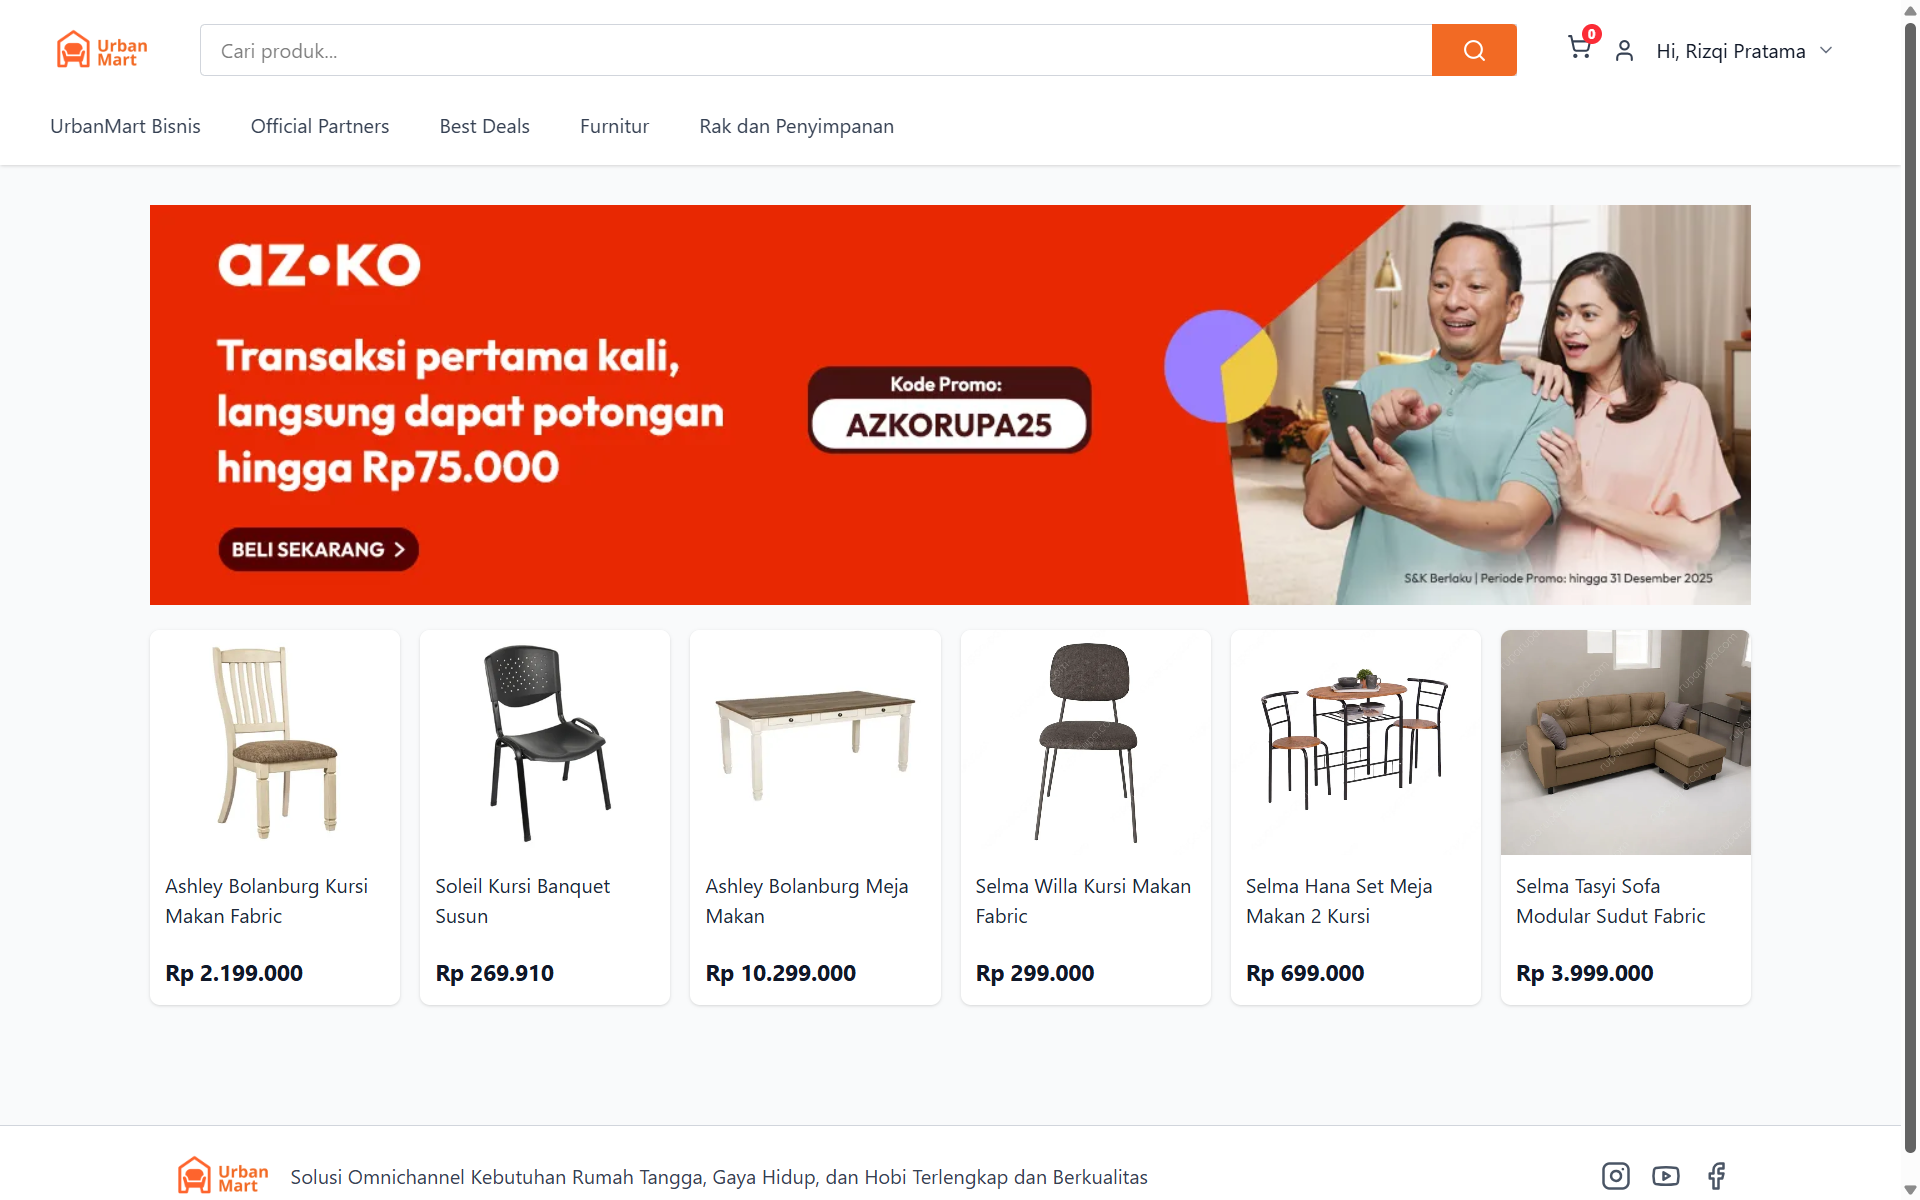
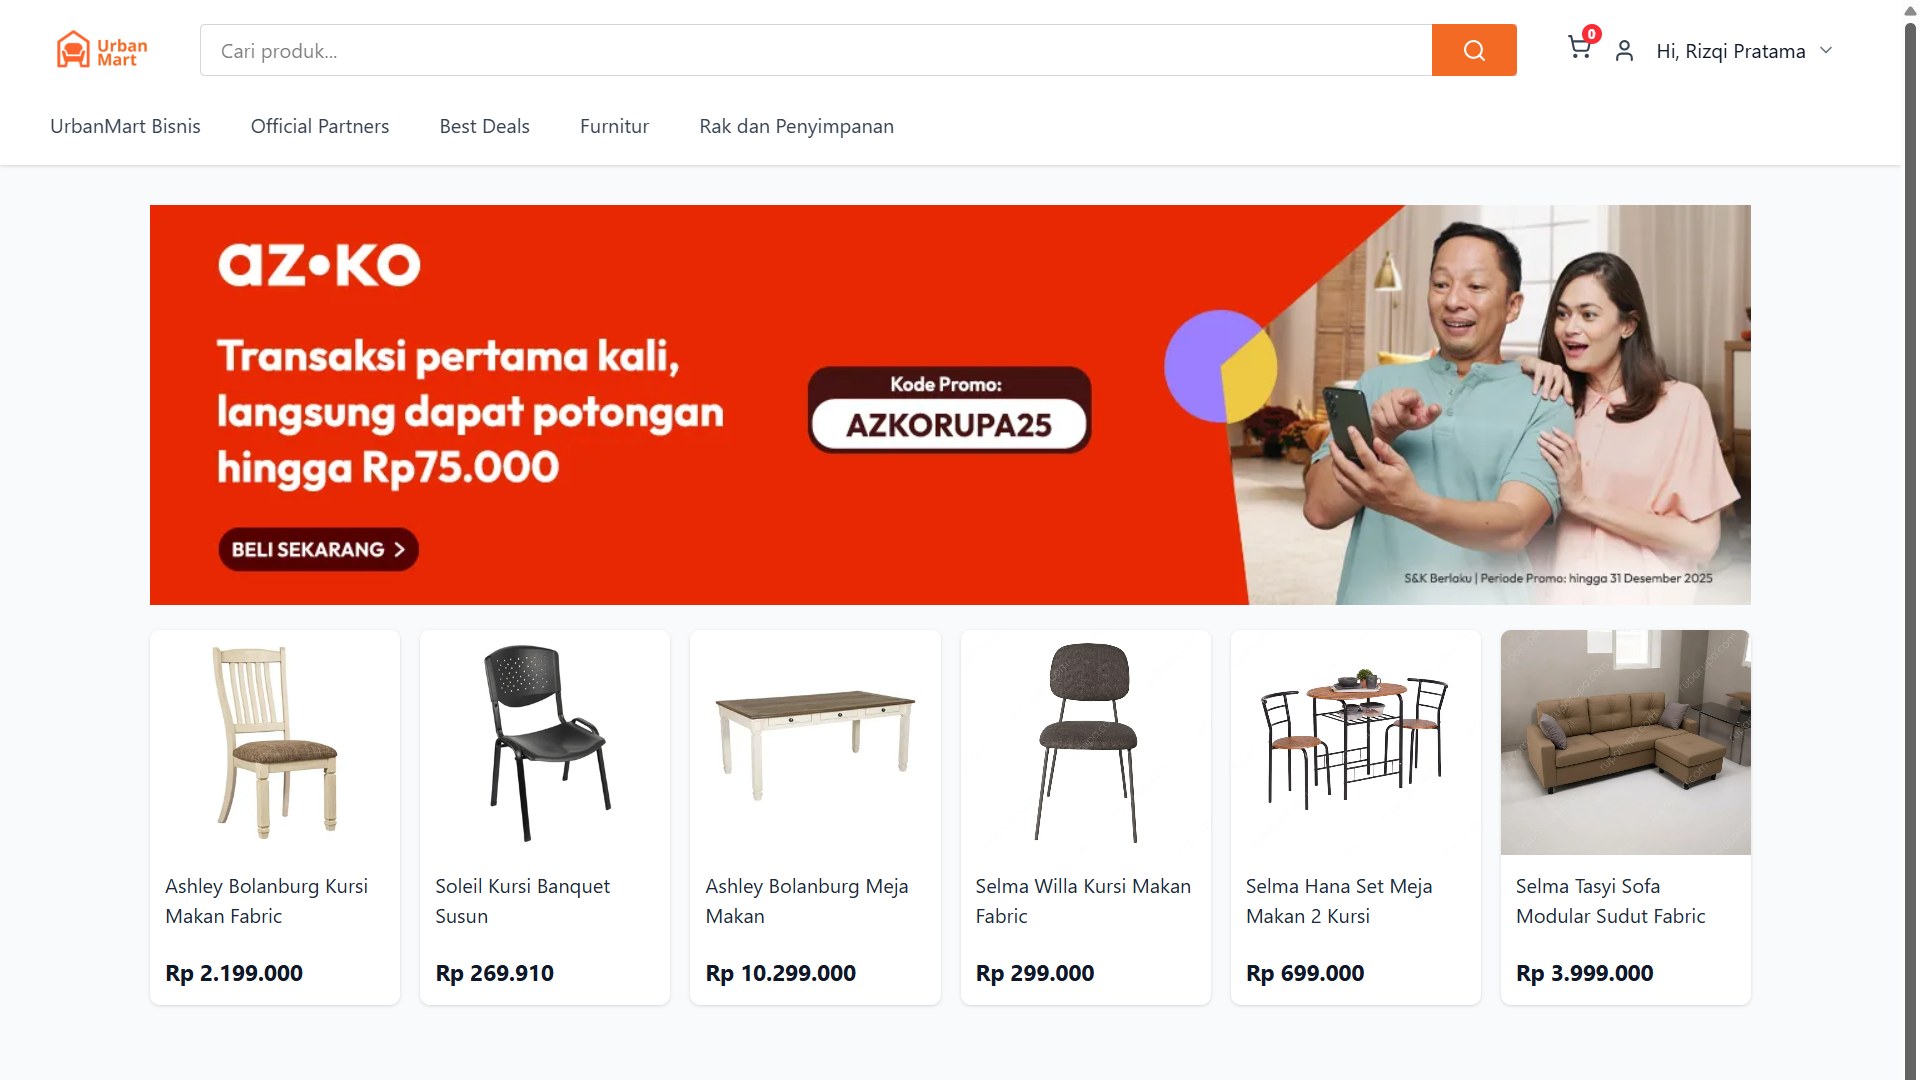
update projects

diff --git a/src/sections/Projects.jsx b/src/sections/Projects.jsx
@@ -15,7 +15,7 @@ const projects = [
     title: "SKANEDA Information Platform API ",
     description:
       "Laravel REST API serving a multi-domain school information platform with news publishing, achievements, facilities, discussion forums, career opportunities, role-based authentication, Redis caching, and background job processing.",
-    image: "/projects/siminlab-inventory-lending-management-system.png",
+    image: "/projects/school-website-project.png",
     tags: ["Laravel", "MySQL", "Redis"],
     link: "#",
     github: "https://github.com/rizqipratama25/skaneda-web-api",
@@ -24,7 +24,7 @@ const projects = [
     title: "Siminlab Inventory Lending Management System",
     description:
       "Inventory lending and asset tracking application built with Laravel. Supports item management, borrowing records, return tracking, and inventory monitoring workflows.",
-    image: "/projects/inventory-app.png",
+    image: "/projects/siminlab-inventory-lending-management-system.png",
     tags: ["Laravel", "MySQL"],
     link: "#",
     github: "https://github.com/rizqipratama25/siminlab-inventory-lending-management-system",
